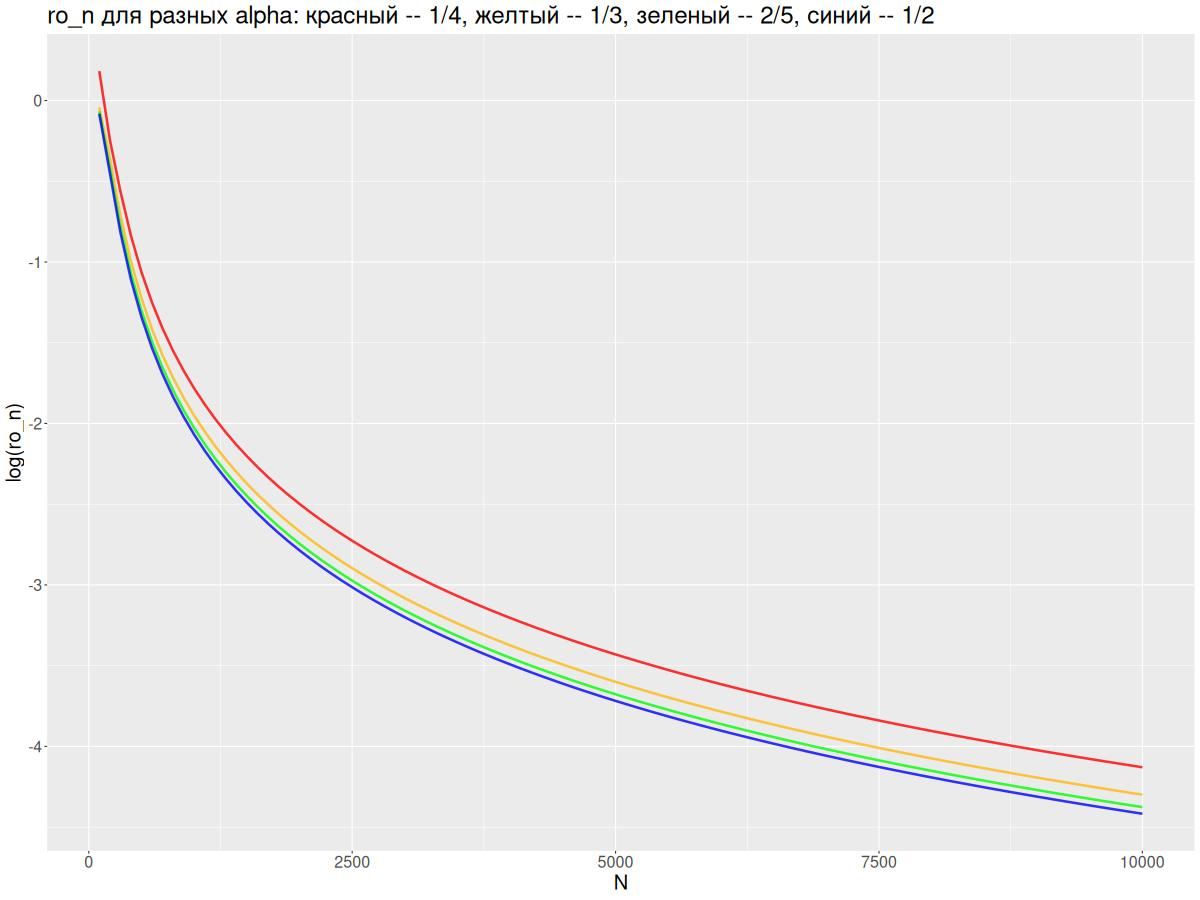
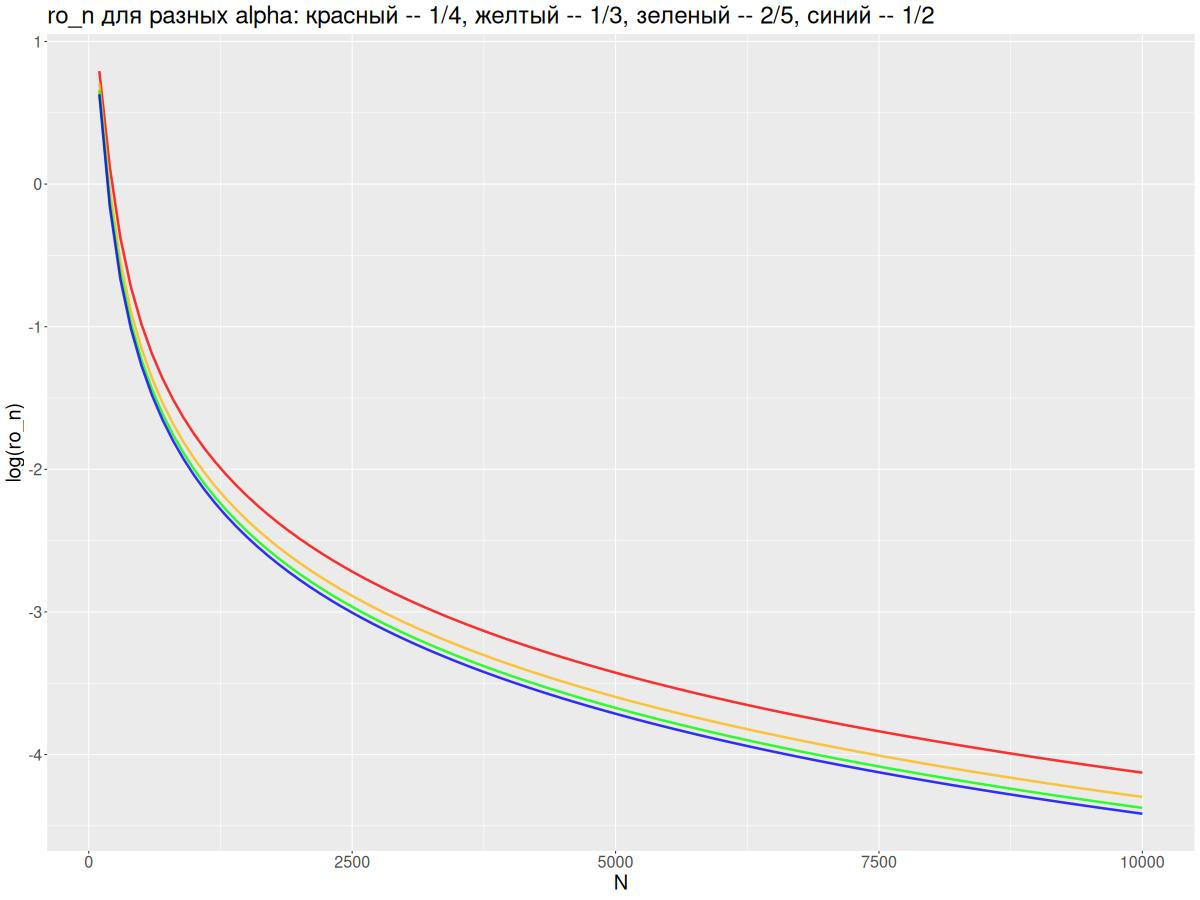
sync

Changed region(s): [[0.0617, 0.0933, 0.9558, 0.9022]]

diff --git a/content/SSA/Const Signal.md b/content/SSA/Const Signal.md
@@ -12,9 +12,11 @@ title: "Const Signal"
 	(Если это так, то нужно проиллюстрировать при фикс. $N$ -- нарисовать исходные графики и ошибки восстановления)
 * Ассимтотика? => Если как следует нарисовать все при больших N, то появятся сомнения в убывании как $\frac 1 N$, увеличить $N$ -- м.б., еще не все устоялось.
 
+
 # Отчет (получше)
 В письме совсем неудобно писать подробно, оттого дополнительно ленно. 
-Наверно, потом из этих микроотчетов сошьется курсовая.
+Наверно, потом из этих микроотчетов "сошьется" курсовая. Писать в LaTex времязатратно, надеюсь, в этом "полулатеховом" формате вас устроит. 
+(Это Markdown, .md, если что.)
 
 
 ## Условие задачи
@@ -32,21 +34,48 @@ title: "Const Signal"
 Здесь ось OY логарифмирована, чтобы визуально лучше разделялись линии.
 
 ![ro_n_alpha_relative](SSA/data/const/ro_n_alpha_relative.jpg)
-Почему при $N \simeq 100$ "просадка" для $1/4 : 1/2$?
 
-##### Рассмотрим поближе, пусть $N = (40, 45, 50,\ldots,500)$. 
+#### Рассмотрим поближе, пусть $N = (40, 45, 50,\ldots,500)$. 
 
 ![ro_n_alpha_closer](SSA/data/const/ro_n_alpha_closer.jpg)
 ![ro_n_alpha_relative_closer](SSA/data/const/ro_n_alpha_relative_closer.jpg)
+Как по-хорошему объяснить некоторую "вонистость" $ro_n$ для двух верхних графиков я не уверен, как и не уверен, нужно ли. Просто, скорости роста меняются по-разному.
 
-Из-за большого шага $N$ это изменение скорости роста пропускалось. Имеет смысл в будущих работах для малых $N$ делать малый шаг, к примеру, до $150$, затем изменить $\Delta \coloneqq 100$ (к примеру). Либо наборот брать $N$ чуть больше, что опустить этот момент.
+"Провал" у красного графика случается, потому что при совсем маленьких $N$ не случается выброс, тогда некорректно сравнивать, по-хорошему стоило бы обрезать красный график в том месте. 
 
 
 ## Случай $\alpha > \frac 1 2$
 При $\alpha > \frac 1 2$ наоборот, $\alpha \uparrow$ => $ro_n\uparrow.$ Т.о., можно сделать предположение, что $ro_n$ достигает минимума при $\alpha \to \frac 1 2.$  
 
-![ro_n_alpha_bigger](SSA/data/const/ro_n_alpha_bigger.jpg) ![ro_n_alpha_bigger_relative](SSA/data/const/ro_n_alpha_bigger_relative.jpg)
-Здесь у нас снова "просадка", но это просто аналогично предыдущему случаю.
+![ro_n_alpha_bigger](SSA/data/const/ro_n_alpha_bigger.jpg) 
+![ro_n_alpha_bigger_relative](SSA/data/const/ro_n_alpha_bigger_relative.jpg)
 
 
-## 
+## Различные $\delta$
+
+Рассмотрим $\delta$ равные $10$, $20$, $30$, $60$.
+
+![ro_n_delta](SSA/data/const/ro_n_delta.jpg)    ![ro_n_delta_fix_n](SSA/data/const/ro_n_delta_fix_n.jpg)
+
+> Почему в прошлом сообщении при росте $\delta$ уменьшалась $ro_n,$ хотя интуитивно очевидно обратное?
+
+Потому что в коде была допущена опечатка, и когда я строил "испорченный" ряд, у меня $M$ и $\delta$ совпадали. Была функция, условно, `Func(N, M = 10, Delta = 30)`, где `M = 10, Delta = 30` -- базовые (дефолтные) значения. И когда нужно изменить дефолтное значение `Delta`, я должен был написать `Func(N, Delta = delta)`, а было написано `X(N, delta)`, т.о. пытаясь изменить `Delta`, изменялось $M$.
+
+Эта ошибка была отловлена только, после того как был построен график восстановленных функций. По нему было видно, что выброс происходит не в одной и той же точке, плюс, он был схожего размера. 
+
+Спасибо за совет его построить. Будущем буду сразу им проверять, что изначальные фукнции работают, как от них ожидаешь.
+
+
+## Скорость сходимости результатов к нулю
+
+Увеличим $\Delta$, чтобы быстрее считалось.
+Уменьшим $\delta$, чтобы быстрее приходило к сходимости.  
+1. $N = (2500, 5000, 7500, \ldots,100000)$
+2. $L = \lfloor \frac N 2 \rfloor$
+3. $M = 10$
+4. $\delta = 10$
+При $N \geq 70000$ $ro_n$ изменяется только порядка десятитысячных при $\Delta = 2500$, можно сказать, что сошлось. 
+$ro_n = (40.0102813, 40.00992679, 40.00959617, 40.00928708, \ldots)$ -- $N = (70000, 72500, 75000, 775000,\ldots)$.
+![ro_n_stable](SSA/data/const/ro_n_stable.jpg)
+
+
